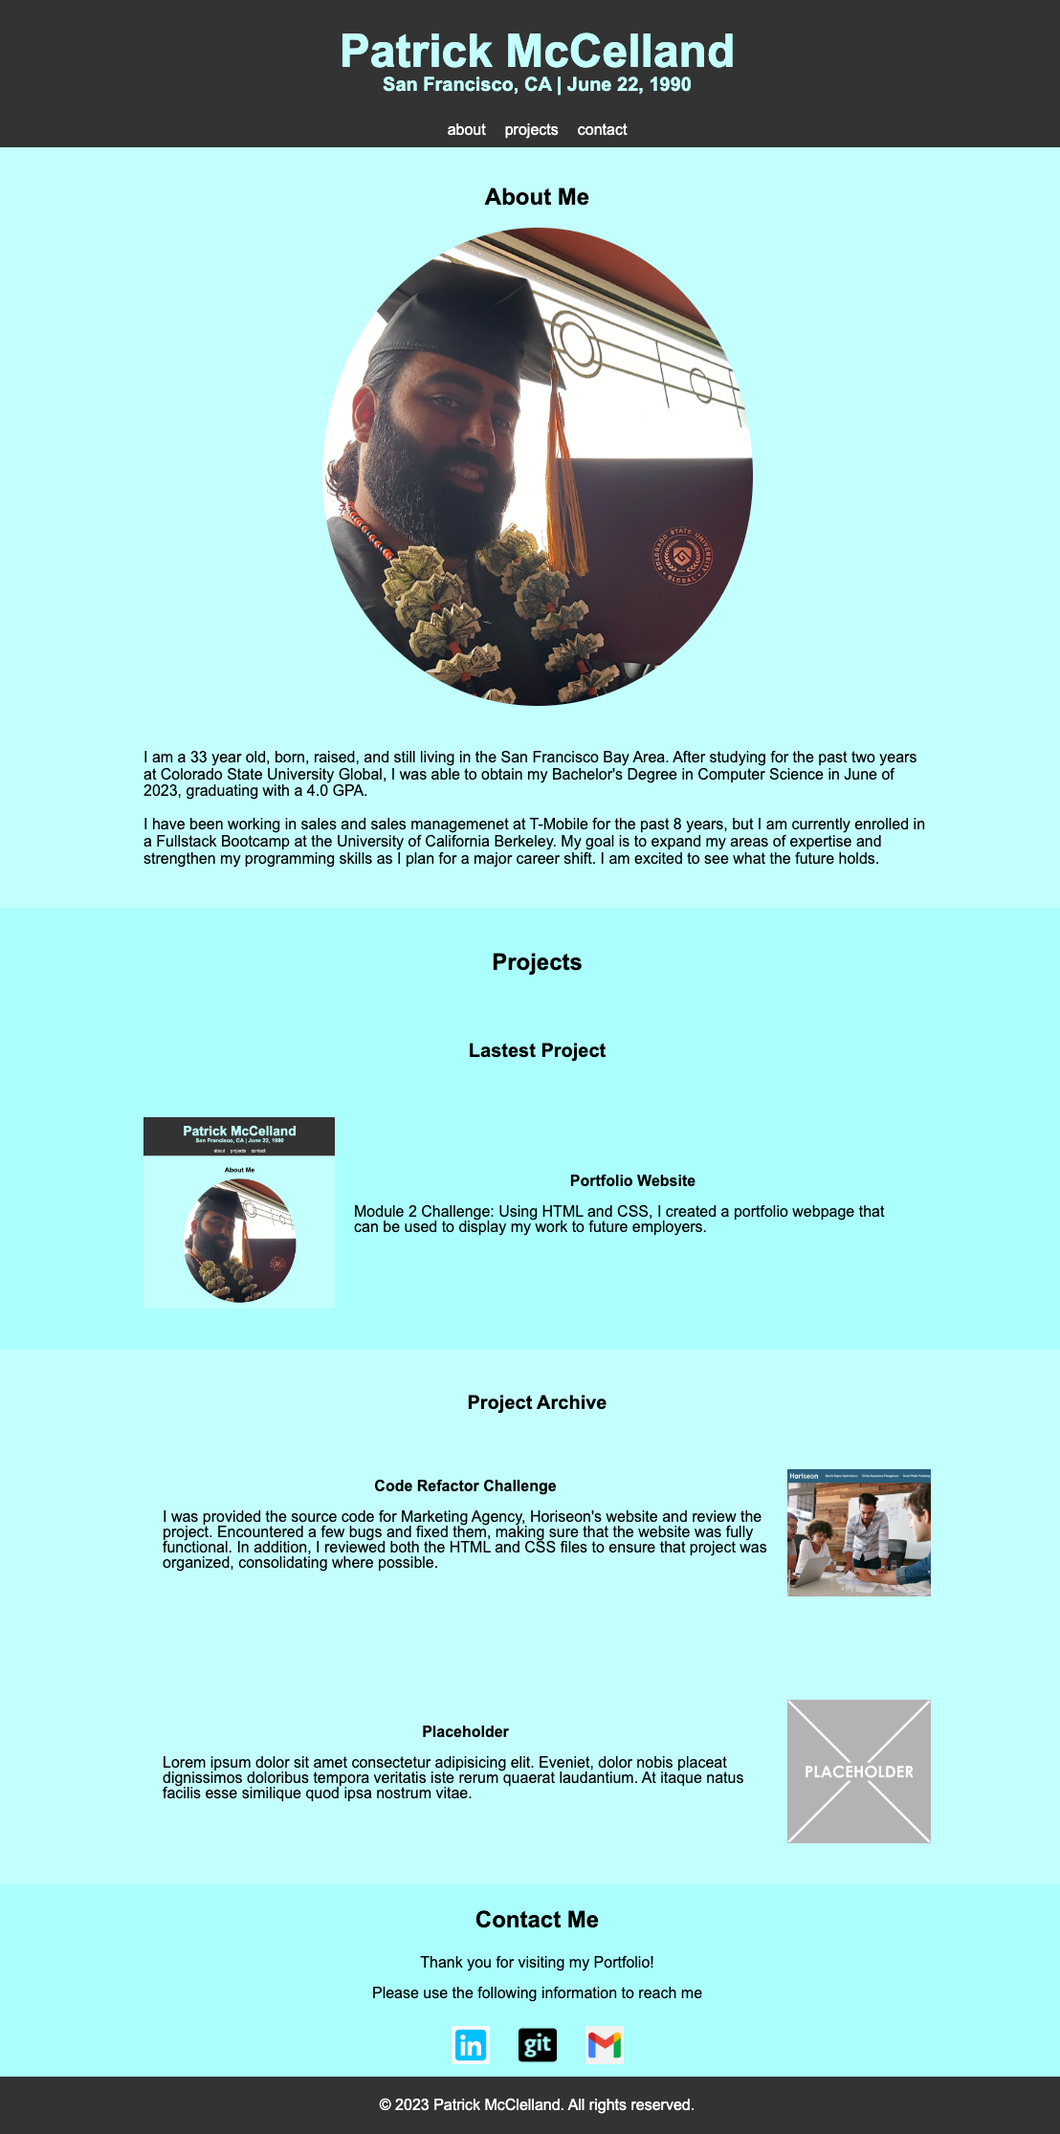
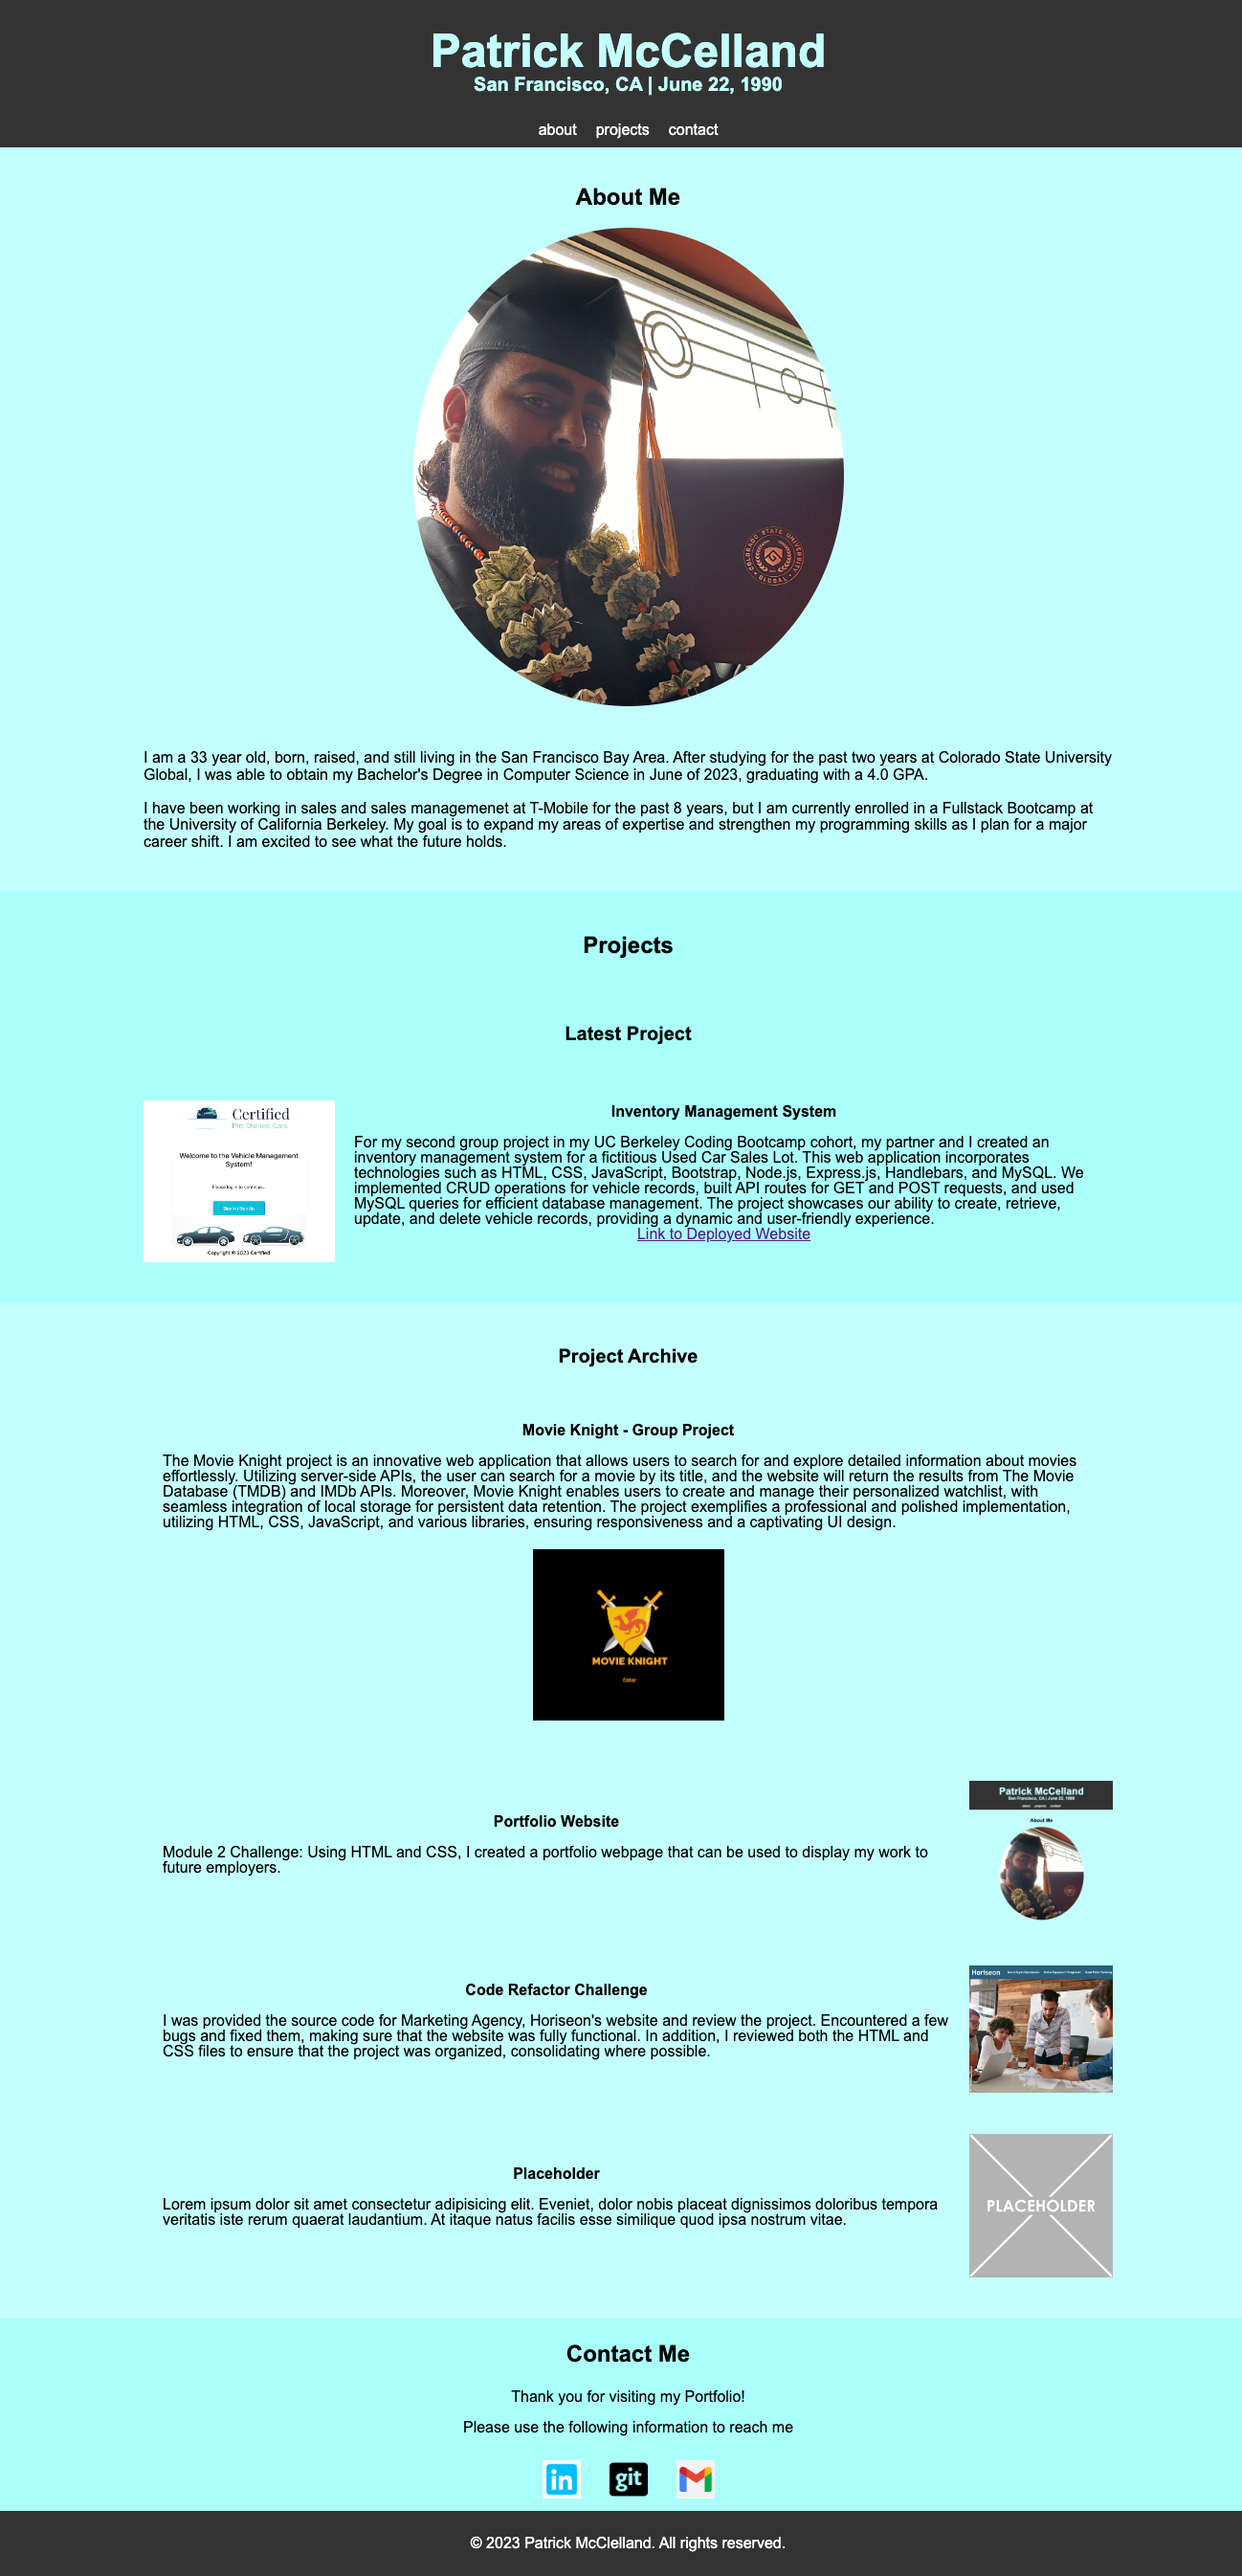
cleaned up my css

diff --git a/index.html b/index.html
@@ -52,9 +52,8 @@
         <header class="projects-header">
             <h3>Projects</h3>
         </header>
-
+        <!-- "Vehicle Management System" -->
         <section class="projects-container">
-            <!-- Add "Movie Knight - Search Engine" here -->
             <h4>Latest Project</h4>
             <div>
                 <div class="latest-project">
@@ -78,7 +77,6 @@
                     <p>
                         <a href="https://vehicle-management-system-7d99e6ab9a87.herokuapp.com/">Link to Deployed Website</a>
                     </p>
-
                 </div>
             </div>
         </section>
@@ -91,19 +89,18 @@
 
             <!-- "Movie Knight - Search Engine" -->
             <div>
-
-                <div class="project-info">
-                    <header>Movie Knight - Group Project</header>
-                    <p><br>The Movie Knight project is an innovative web application that allows users to search for and
-                        explore detailed information about movies effortlessly. Utilizing server-side APIs, the user can
-                        search for a movie by its title, and the website will return the results from The Movie Database
-                        (TMDB) and IMDb APIs. Moreover, Movie Knight enables users to create and manage their
-                        personalized
-                        watchlist, with seamless integration of local storage for persistent data retention. The project
-                        exemplifies a professional and polished implementation, utilizing HTML, CSS, JavaScript, and
-                        various libraries, ensuring responsiveness and a captivating UI design.</p>
-                    <div class="latest-project">
-                        <a href="https://btbautista31.github.io/movie_knight/"><img
+                <div class="project-archive">
+                    <div class="project-info">
+                        <header>Movie Knight - Group Project</header>
+                            <p><br>The Movie Knight project is an innovative web application that allows users to search for and
+                                explore detailed information about movies effortlessly. Utilizing server-side APIs, the user can
+                                search for a movie by its title, and the website will return the results from The Movie Database
+                                (TMDB) and IMDb APIs. Moreover, Movie Knight enables users to create and manage their personalized
+                                watchlist, with seamless integration of local storage for persistent data retention. The project
+                                exemplifies a professional and polished implementation, utilizing HTML, CSS, JavaScript, and
+                                various libraries, ensuring responsiveness and a captivating UI design.</p>
+                            <div class="latest-project">
+                            <a href="https://btbautista31.github.io/movie_knight/"><img
                                 src="./assets/images/homepage-screenshot.png" alt="Movie Knight Screenshot"></a>
                     </div>
                 </div>

diff --git a/assets/style.css b/assets/style.css
@@ -1,5 +1,4 @@
 :root {
-    /* my colors */
     --header: #333333;
     --primary: #c3fffd;
     --secondary: #aafffc;
@@ -65,7 +64,6 @@ nav a:visited {
     color: white;
 }
 
-
 /* About Section */
 .about {
     background-color: var(--primary);
@@ -114,7 +112,6 @@ nav a:visited {
     align-items: center;
 }
 
-
 /* Projects Section */
 .projects {
     background-color: var(--secondary);
@@ -148,20 +145,38 @@ h4 {
 .projects-container div {
     padding-top: 20px;
     display: flex;
-    justify-content: center; 
-    align-items: center;
+    flex-direction: column; 
+    align-items: center; 
 }
 
 .projects-container header {
     font-size: 16px;
     font-weight: bold;
+    text-align: center; 
+    margin-bottom: 10px; 
 }
 
-.projects-container img:hover {
-    transform: scale(1.1);
+.project-info {
+    display: flex;
+    flex-direction: column;
+    align-items: center;
+    text-align: center; 
+    padding: 20px;
+    margin-bottom: 20px; 
 }
 
+.project-info p {
+    justify-content: flex-start;
+    margin-top: 10px; 
+}
 
+.project-archive img {
+    width: 150px;
+    height: auto;
+    margin-bottom: 20px;
+}
+
+/* Archive Section */
 .archive {
     background-color: var(--primary);
     display: flex;
@@ -173,21 +188,21 @@ h4 {
     height: auto;
 }
 
+.project-archive {
+    width: 150px;
+    height: auto;
+    margin-bottom: 20px; 
+    position: relative;
+    border-bottom: 2px solid #000; 
+    width: 100%; 
+}
+
 .project-archive img {
     width: 150px;
     height: auto;
+    margin-bottom: 50px; 
+    position: relative; 
 }
-
-.project-info {
-    display: flex;
-    flex-direction: column;
-    padding: 20px;
-}
-
-.project-info p {
-    justify-content: flex-start;
-}
-
 
 /* Contact Section */
 .contact {
@@ -243,7 +258,6 @@ h4 {
     transform: scale(1.1);
 }
 
-
 /* Footer Section */
 footer {
     background-color: #333;
@@ -252,7 +266,6 @@ footer {
     justify-content: center;
     text-align: center;
 }
-
 
 /* Media Query */
 @media screen and (max-width: 800px) {
